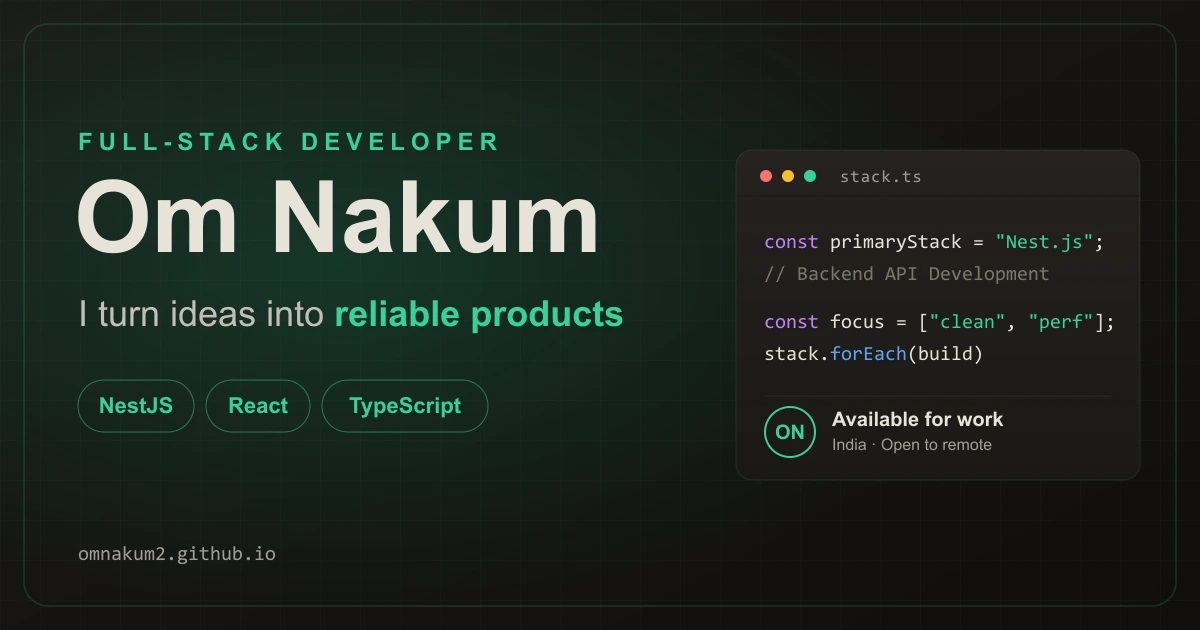
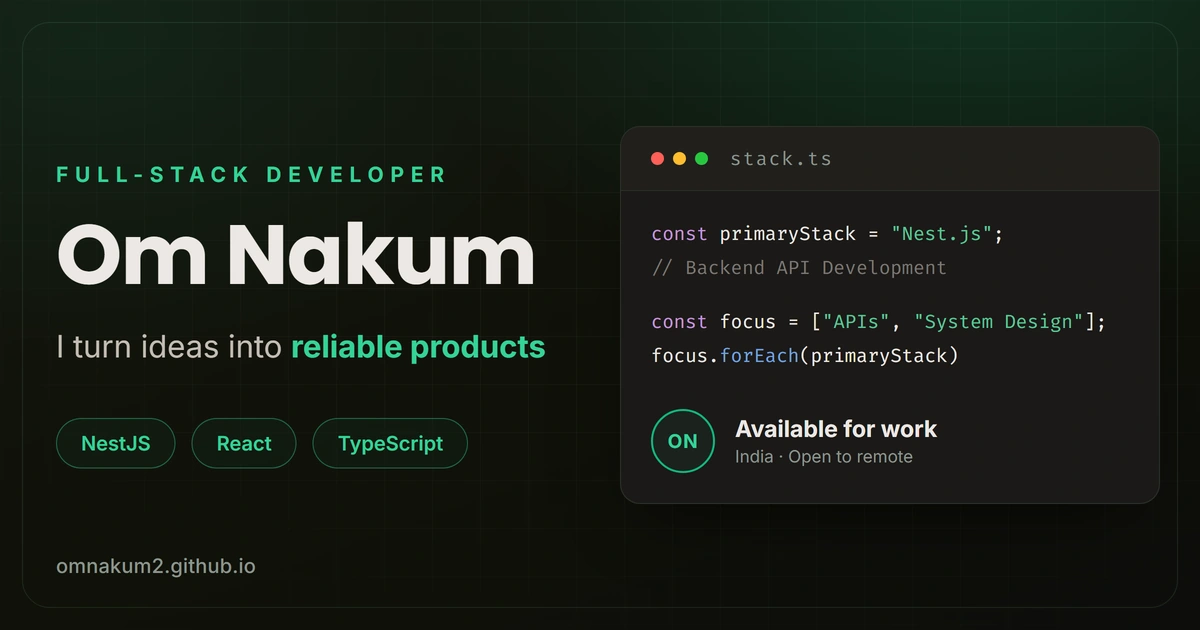
Update portfolio content, legal pages, project assets, and refine site UI components

diff --git a/src/data/legal.ts b/src/data/legal.ts
@@ -46,43 +46,44 @@ export interface LegalDoc {
 export const privacyPolicy: LegalDoc = {
   title: 'Privacy Policy',
   intro: [
-    'This Privacy Policy explains how Om Nakum handles both the information you share through this website and any materials you share when we work together on a project.',
+    'This Privacy Policy explains what information Om Nakum collects through this website and how information shared during a project is handled.',
   ],
   sections: [
     {
       heading: 'Information we collect',
       items: [
-        { text: 'Details you submit through the contact form: your name, email address, and message.' },
-        { text: 'Basic, non-identifying technical data your browser sends, only if analytics is enabled.' },
+        { text: 'If you contact me through the website, I may collect your name, email address, and the information included in your message.' },
+        { text: 'If analytics are enabled, the site may collect basic technical information such as browser type, device type, and general usage data.' },
       ],
     },
     {
       heading: 'Project information you share',
       items: [
-        { text: 'To deliver a project, you may share materials, content, accounts or access credentials, and business or customer data.' },
-        { text: 'This is used only to carry out the agreed work, kept confidential, and never shared beyond what the project requires.' },
-        { text: 'On request, or once the work is complete, project data and any access are returned or securely deleted.' },
+        { text: 'When working together, you may share project materials, content, account access, credentials, or business and customer data.' },
+        { text: 'I use this information only as needed to provide the agreed services and treat it as confidential.' },
+        { text: 'When the work is complete, or when you request it, project data and access can be returned or securely deleted where reasonably possible.' },
       ],
     },
     {
-      heading: 'How we use it',
+      heading: 'How information is used',
       items: [
-        { text: 'Only to read and respond to your enquiry.' },
-        { text: 'We never sell, rent, or share your personal data with third parties.' },
+        { text: 'Information submitted through the website is used to respond to your enquiry and communicate with you about potential work.' },
+        { text: 'Project information is used only to provide the agreed services and manage the project.' },
+        { text: 'I do not sell your personal information or use it for advertising purposes.' },
       ],
     },
     {
       heading: 'Cookies and analytics',
       items: [
-        { text: 'This site uses no advertising or tracking cookies.' },
-        { text: 'Any analytics are privacy-friendly and aggregate only.' },
+        { text: 'This website does not use advertising cookies.' },
+        { text: 'If analytics are enabled, they are used to understand general website usage rather than to identify you personally.' },
       ],
     },
     {
       heading: 'Your rights and contact',
       items: [
-        { text: 'You can request access to, correction of, or deletion of your data at any time.' },
-        { text: 'Get in touch through the {{contact}} with any privacy questions.' },
+        { text: 'You can contact me to request access to, correction of, or deletion of personal information I hold about you, subject to applicable law.' },
+        { text: 'For privacy questions or requests, get in touch through the {{contact}}.' },
       ],
     },
   ],
@@ -93,49 +94,51 @@ export const privacyPolicy: LegalDoc = {
 export const termsAndConditions: LegalDoc = {
   title: 'Terms of Service',
   intro: [
-    'These Terms of Service apply to the web and full-stack development services provided by Om Nakum. By engaging these services, you agree to the terms below.',
+    'These Terms of Service apply to web and full-stack development services provided by Om Nakum. The specific terms of each project are also set out in the quote, proposal, or agreement confirmed before work begins.',
   ],
   sections: [
     {
       heading: 'Scope of services',
       items: [
-        { text: 'The exact deliverables, timeline, and scope for each project are defined in the quote or agreement confirmed before work begins.' },
-        { text: 'Anything outside that agreed scope is treated as new work and quoted separately.' },
+        { text: 'The deliverables, timeline, fees, and scope for each project are defined in the agreed quote, proposal, or contract.' },
+        { text: 'Work outside the agreed scope may require a separate estimate and additional fees.' },
       ],
     },
     {
       heading: 'Payment',
       items: [
-        { text: 'Fees and the payment schedule are set out in the project quote or invoice we agree on.' },
-        { text: 'Projects may require an upfront deposit, with the remaining balance due on delivery or at the agreed milestones.' },
+        { text: 'Fees and payment schedules are set out in the agreed quote, proposal, or invoice.' },
+        { text: 'A project may require an upfront deposit, with the remaining balance due on delivery or at agreed milestones.' },
+        { text: 'Work may be paused if agreed payments are overdue.' },
       ],
     },
     {
       heading: 'Revisions and changes',
       items: [
-        { text: 'A reasonable number of revisions within the agreed scope are included.' },
-        { text: 'Significant changes or additions are estimated and billed separately.' },
+        { text: 'Reasonable revisions within the agreed scope are included in the project.' },
+        { text: 'Significant changes, new features, or additions outside the agreed scope may be estimated and billed separately.' },
       ],
     },
     {
       heading: 'Client responsibilities',
       items: [
-        { text: 'Please provide the content, assets, access, and feedback needed to complete the work in good time.' },
-        { text: 'Delivery timelines are estimates and depend on timely responses and any third-party services involved.' },
+        { text: 'You are responsible for providing the content, assets, access, credentials, and feedback reasonably needed to complete the work.' },
+        { text: 'Project timelines may change when required information or feedback is delayed, or when work depends on third-party services.' },
       ],
     },
     {
       heading: 'Intellectual property',
       items: [
-        { text: 'Ownership of the final deliverables transfers to you once the project is paid for in full; until then, the work remains my property.' },
+        { text: 'Unless agreed otherwise, ownership of the final project deliverables transfers to you once the project has been paid for in full.' },
+        { text: 'Pre-existing code, tools, libraries, templates, and other materials I own remain mine unless otherwise agreed.' },
         { text: 'I may showcase completed work in my portfolio unless we agree otherwise in writing.' },
       ],
     },
     {
       heading: 'Warranty and liability',
       items: [
-        { text: 'Services are provided professionally and in good faith, but without warranties of any kind.' },
-        { text: 'To the extent permitted by law, my liability for any claim is limited to the fees paid for the affected work.' },
+        { text: 'I will provide the services with reasonable care and skill, but I cannot guarantee that every project will be completely free from bugs, interruptions, or issues caused by third-party services.' },
+        { text: 'To the extent permitted by applicable law, liability arising from a project is limited to the fees paid for the affected services.' },
       ],
     },
     {
@@ -146,7 +149,9 @@ export const termsAndConditions: LegalDoc = {
     },
     {
       heading: 'Contact',
-      items: [{ text: 'Questions about these terms? Get in touch through the {{contact}}.' }],
+      items: [
+        { text: 'Questions about these terms? Get in touch through the {{contact}}.' },
+      ],
     },
   ],
 };

diff --git a/src/data/portfolio.ts b/src/data/portfolio.ts
@@ -17,7 +17,7 @@ export interface TechLogo {
   name: string;
   /** simple-icons id, e.g. 'simple-icons:react'. */
   icon: string;
-  /** Brand color revealed on hover (grayscale → color). */
+  /** Brand color for the icon. */
   color: string;
 }
 
@@ -79,22 +79,22 @@ export const hero = {
     tails: ["reliable products", "clean code", "simple solutions"],
   },
   tagline:
-    "I build web applications that turn complex ideas into simple, reliable user experiences.",
+    "I build web applications that turn complex ideas into simple and reliable user experiences.",
   availability: "Available for work",
   stats: [
     { value: "2+", label: "Years experience" },
-    { value: "5+", label: "Projects shipped" },
+    { value: "7+", label: "Projects shipped" },
     { value: "2", label: "Industries explored" },
   ],
   /** Right-side action card content. */
   card: {
-    eyebrow: "let's work together",
-    heading: "Have a project in mind?",
-    body: "Tell me what you're building, from a quick idea to a full product. I usually reply within a day.",
+    eyebrow: "Start a conversation",
+    heading: "What are you building?",
+    body: "Building something new or improving an existing product? Send me the details. I'll get back to you within a day.",
     points: [
-      "Based in India, open to remote",
-      "Clean architecture and performance",
-      "Idea to deployment, end to end",
+      "Based in India, available for remote work",
+      "Focused on maintainable, high-performance systems",
+      "From idea to production",
     ],
   },
 };
@@ -139,7 +139,7 @@ export const skills = {
     description: "Backend API Development",
     icon: "simple-icons:nestjs",
     color: "#E0234E",
-    focus: ["API Development", "System Design"]
+    focus: ["APIs", "System Design"]
   } as PrimarySkill,
   secondary: [
     { name: "React.js", icon: "simple-icons:react", color: "#61DAFB" },
@@ -190,10 +190,10 @@ export const services: ServiceItem[] = [
     description:
       "Modern, responsive websites tailored for usability and aesthetics.",
     features: [
-      "Responsive Design",
-      "Modern UI/UX",
-      "Performance Optimization",
-      "SEO Friendly",
+      "Website Design",
+      "Web Application Design",
+      "Modern Responsive UI/UX",
+      "SEO & Performance Optimization",
     ],
   },
   {
@@ -227,12 +227,12 @@ export const services: ServiceItem[] = [
 export const projects: { academic: ProjectItem[]; company: ProjectItem[] } = {
   academic: [
     {
-      name: "Food Court",
+      name: "Resto",
       description:
         "Node.js + React.js restaurant menu app with admin panel and QR code integration.",
       techStack: ["Node.js", "React.js", "MySQL"],
       category: "Restaurant",
-      image: "/project-foodcourt.webp",
+      image: "/project-resto.webp",
       features: [
         "Digital menu QR code",
         "Order management",
@@ -278,7 +278,7 @@ export const projects: { academic: ProjectItem[]; company: ProjectItem[] } = {
   company: [
     {
       name: "ERP Solutions for Brass Industry",
-      description: "React.js + Nest.js ERP with HR, PO, and quotation modules.",
+      description: "React.js + Nest.js ERP with PO, quotation, and HR modules, featuring ESSL biometric webhook integration.",
       techStack: ["React.js", "Nest.js", "MySQL", "TypeScript", "AWS"],
       category: "Enterprise",
       image: "/project-erp.webp",
@@ -287,21 +287,21 @@ export const projects: { academic: ProjectItem[]; company: ProjectItem[] } = {
         "Quotation System",
         "HR Management",
         "Purchase Orders",
-        "Reporting Dashboard",
+        "Real-time Attendance Tracking",
       ],
     },
     {
       name: "Managed IT & Cybersecurity Website",
-      description: "Astro + MDX website for a managed IT services business.",
+      description: "High-performance, search-optimized website for a managed IT services business.",
       techStack: ["Astro", "MDX", "TypeScript", "React"],
       category: "Business / IT Services",
       image: "/project-it-services.webp",
       status: "Live",
       features: [
         "Managed IT Services",
+        "Remote IT Support",
         "Cybersecurity Solutions",
         "Service & Pricing Pages",
-        "Remote IT Support",
       ],
     },
   ],
@@ -348,26 +348,26 @@ export const faqs: FaqItem[] = [
   {
     question: "What kind of work are you open to?",
     answer:
-      "I'm open to full-time engineering roles, freelance projects, and interesting collaborations. I especially enjoy greenfield products, API design, and performance optimization.",
+      "I'm open to full-time engineering roles and select freelance projects. I particularly enjoy building products from scratch, designing APIs, and solving performance problems.",
   },
   {
     question: "What's your preferred tech stack?",
     answer:
-      "I'm most productive with TypeScript, NestJS, React/Next.js, and Node.js. But I'm stack-agnostic and pick the right tool for the job.",
+      "I'm most productive with TypeScript, NestJS, and React.js. I'm also comfortable stepping outside that stack when the project calls for it.",
   },
   {
     question: "Do you work with remote teams?",
     answer:
-      "Absolutely. I'm comfortable with async communication, Notion/Linear docs, and overlap-window pairing across time zones.",
+      "Yes. I'm comfortable working across time zones and can set aside overlap hours for pairing, discussions, and team meetings.",
   },
   {
     question: "How quickly can you start a new project?",
     answer:
-      "For freelance/contract work, I'm typically available within 1–2 weeks. For full-time roles, standard notice period applies. Reach out and let's figure out the timeline together.",
+      "For freelance or contract work, I'm typically available within 1–2 weeks. For full-time roles, my standard notice period applies. Send me the scope and target date, and we can work out a realistic timeline.",
   },
   {
     question: "Can I see your code?",
     answer:
-      "Yes! Most of my personal and open-source projects are on my GitHub. For proprietary work, I can walk you through architecture decisions and outcomes in a call.",
+      "Yes. Most of my personal and open-source work is on GitHub. For proprietary projects, I can walk you through the architecture, trade-offs, and results without sharing confidential code.",
   },
 ];

diff --git a/src/styles/global.css b/src/styles/global.css
@@ -63,7 +63,7 @@ a { transition: color 0.25s ease, opacity 0.25s ease; }
   border-radius: 6px;
 }
 
-::-webkit-scrollbar { width: 10px; height: 10px; }
+::-webkit-scrollbar { width: 8px; height: 8px; }
 ::-webkit-scrollbar-track { background: var(--color-ground); }
 ::-webkit-scrollbar-thumb {
   background: var(--color-accent);
@@ -158,6 +158,7 @@ a { transition: color 0.25s ease, opacity 0.25s ease; }
   position: absolute;
   inset: 0;
   z-index: 1;
+  border-radius: inherit;
   opacity: 0;
   transition: opacity var(--dur-mid) var(--ease-settle);
   background: radial-gradient(240px circle at var(--mx, 50%) var(--my, 50%),
@@ -176,7 +177,7 @@ a { transition: color 0.25s ease, opacity 0.25s ease; }
   position: fixed;
   top: 0; left: 0;
   width: 100%;
-  height: 3px;
+  height: 2px;
   z-index: 60;
   transform: scaleX(0);
   transform-origin: left center;
